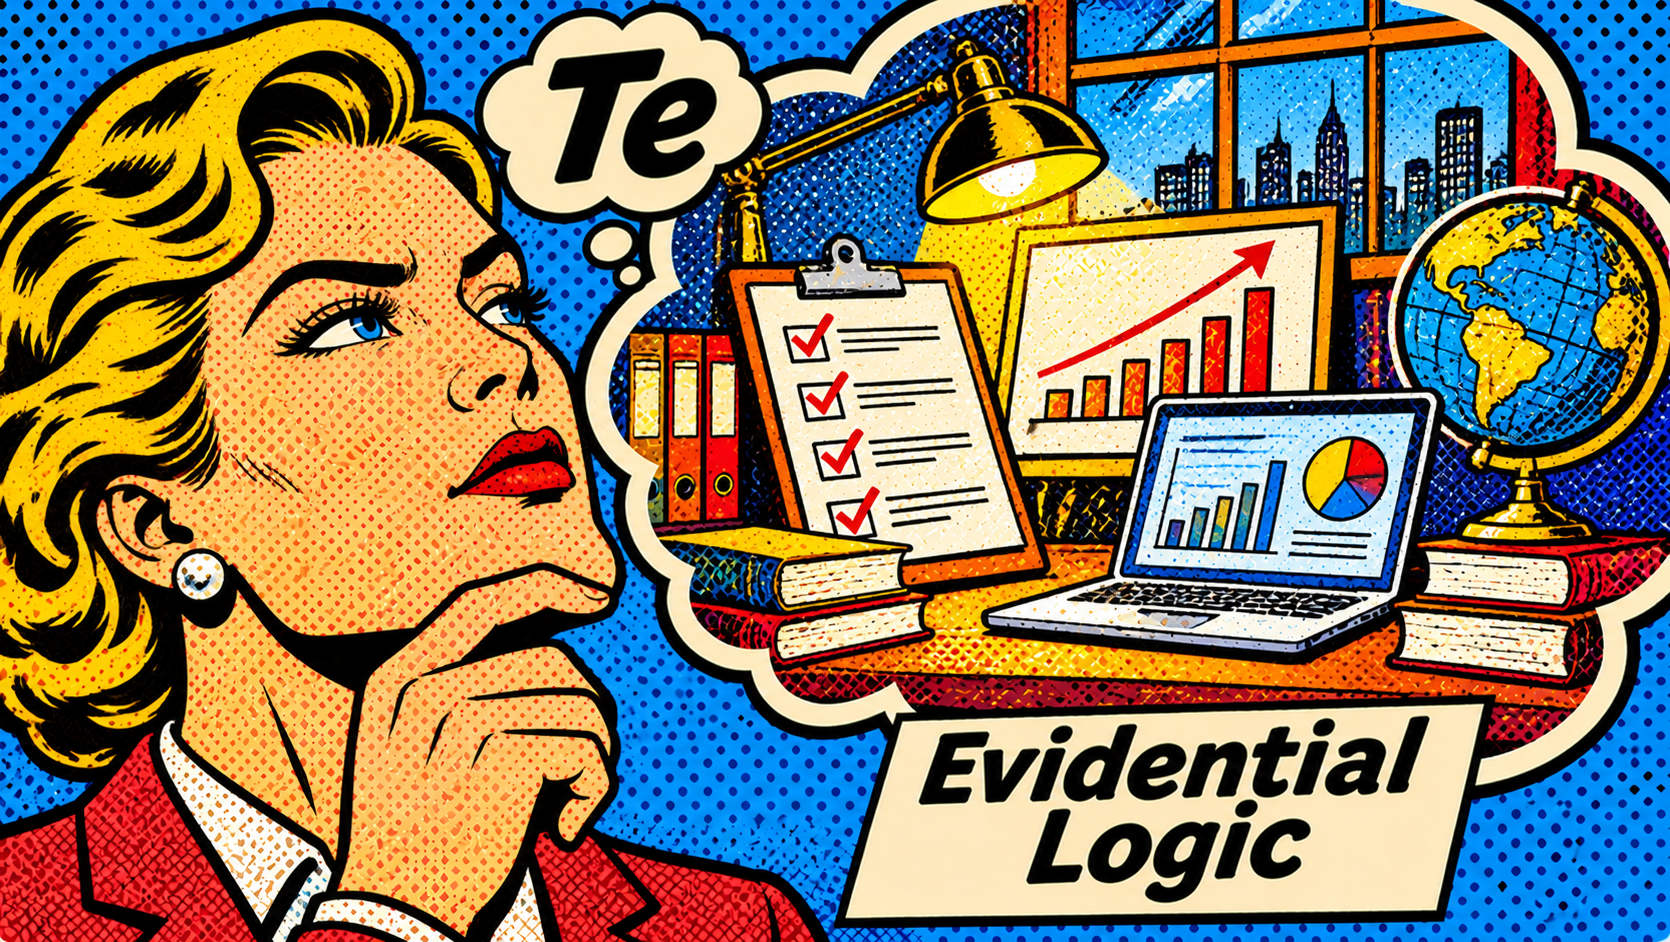
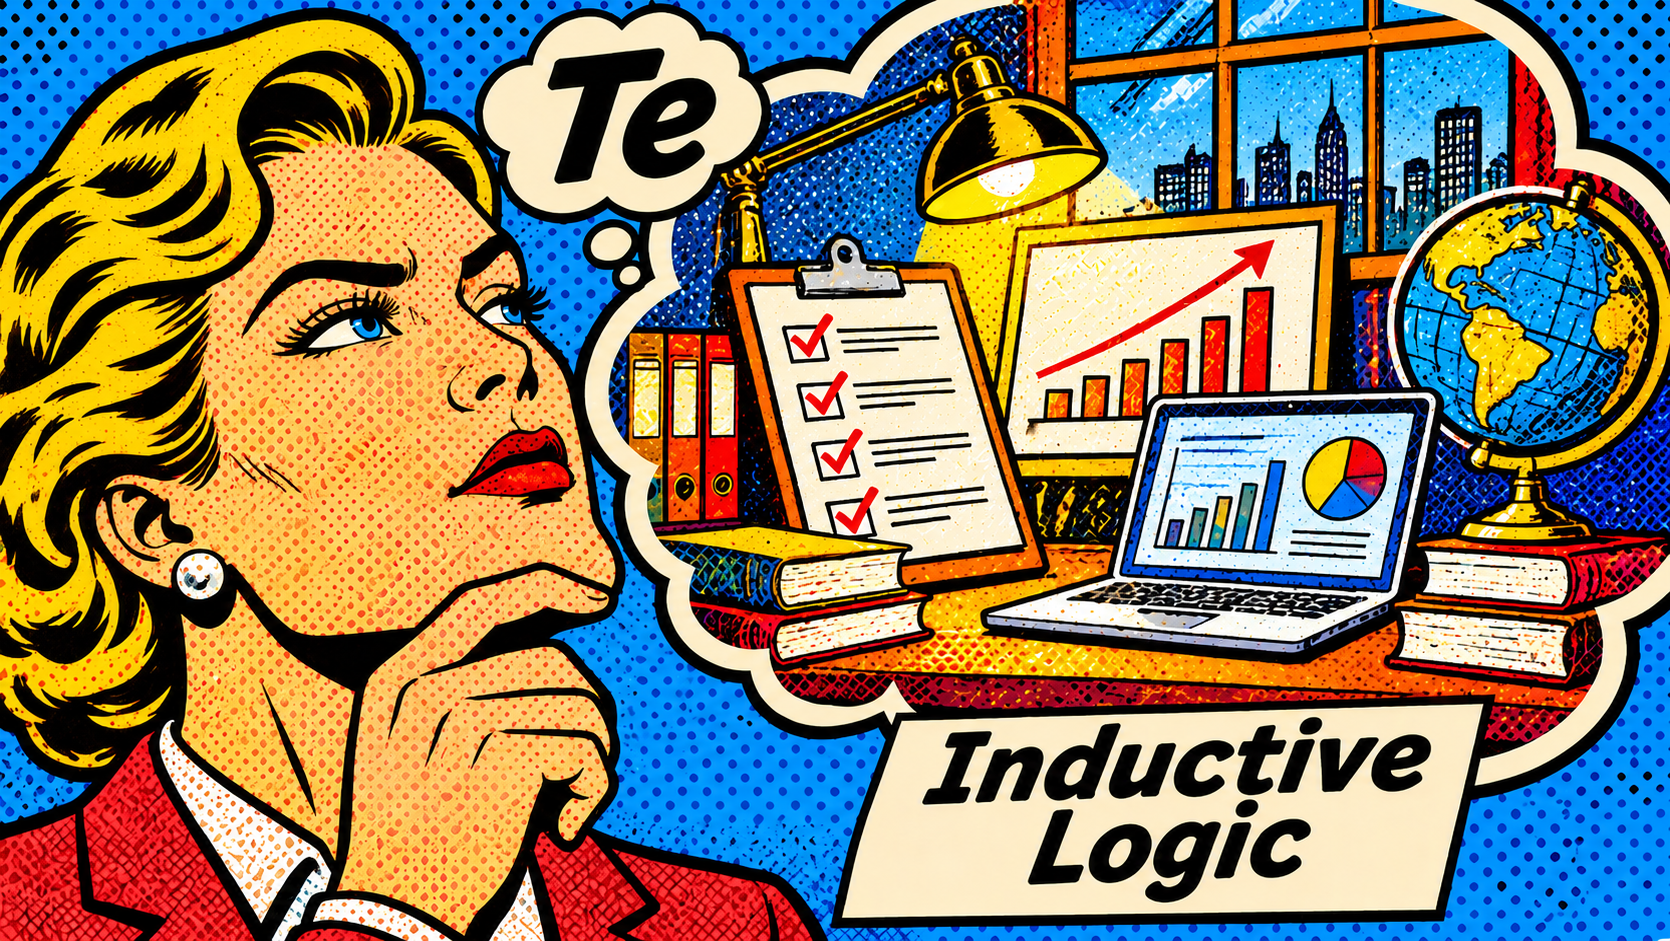
Update

diff --git a/Typology/Referencics.md b/Typology/Referencics.md
@@ -171,22 +171,36 @@ For example, someone visits a popular beach spot for vacation, and when their fr
 
 ![Introverted Intuition|429](./media/hcc_ni.png)
 
-*Introverted intuition* which is also known as *symbolic potential* combines
+*Introverted intuition* which is also known as *symbolic potential* combines *introverted* attitude and function of *intuition* to produce a *subjective* attitude towards *hidden potential*. Using this, a subject perceives hidden potential in objects based on what their inner compass shows them, and not the potential that object itself contains as subjective contents influence it.
+
+For example, someone comes to know that their friend won the marathon just before their brother's birthday, and later treating it as a divine message to them saying they must cheer up. Notice that the potential hidden in object itself wasn't given importance, but it was given to subject's own understanding or inner direction which influenced their perception.
 
 
 ### 7.4 <u>Extraverted Intuition (Ne)</u>:
 
-Combines the attitude of *extroversion* and information element of *intuition*. This function is used for producing certain outcome with unconscious leaps. For example, *Mark Watney* from *The Martian (2015)* is very likely an ***Ne lens*** character who generally gets surge of ideas in his mind merely by knowing what resources he has, using them in a way to solve complicated and life-threatening situations.
+![Extraverted Intuition|429](./media/hcc_ne.png)
+
+*Extraverted intuition* which is also known as *resource potential* combines *extraverted* attitude and function of *intuition* to produce an *objective* attitude towards *hidden potential*. Using this, a subject perceives hidden potential in object itself instead of letting their subjective influence (inner compass) affect their perception, thus being concentrated on objective information.
+
+For example, someone notices a bunch of discarded broken mechanical parts in a storeroom, and then perceives their collective potential to form a windmill, or even each part's individual potential to be a very critical part in expensive machineries. Notice how the potential is seen in object, and not symbolic for being affected by subject's experiences. Resource can also be living entity.
 
 
 ### 7.5 <u>Introverted Thinking (Ti)</u>:
 
-Combines the attitude of *introversion* and information element of *thinking*. This function is used for analyzing logical systems deeper. For example, *Michael Scofield* from *Prison Break (2005-2017)* is very likely an ***Ti lens*** character whose first response to being introduced to something is to analyze the underlying structure of it, be it a building, prison cell, sewer systems, or even random screws & mechanical tools.
+![Introverted Thinking|429](./media/hcc_ti.png)
+
+*Introverted thinking* which is also known as *deductive logic* combines *introverted* attitude and function of *thinking* to produce a *subjective* attitude towards *logical reasoning*. Using this, a subject judges an object through an inner compass of logic which is established through some established principles, where it raises a sense of wrongness when they are violated.
+
+For example, someone comes to know that evidences against criminal were found but he feels something is wrong because the conclusion doesn't follow from established evidences, as deduction proves it wrong. This is a case where subject feels something is wrong because its own assumptions were challenged, making them sometimes precise yet cynical in nature.
 
 
 ### 7.6 <u>Extraverted Thinking (Te)</u>:
 
-Combines the attitude of *extroversion* and information element of *thinking*. This function is used for producing certain outcome with logical systems. For example, *Light Yagami* from *Death Note (2006-2007)* is very likely an ***Te lens*** character whose every strategic move heavily relied on masking his crimes and make it easier to commit future crimes by taking full leverage of the available rules of the book, being a member of an police forces to evade them easily.
+![Extraverted Thinking|427](./media/hcc_te.png)
+
+*Extraverted thinking* which is also known as *inductive logic* combines *extraverted* attitude and function of *thinking* to produce an *objective* attitude towards *logical reasoning*. Using this, a subject judges an object through objective evidences which are established, instead of verifying it against subject's established principles.
+
+For example, someone collects samples from various rivers to which one is the cleanest for having least harmful microbes in fixed volumes, and concludes so through variations in tests without checking the formulae or other other samples to be sure. This is a form of empirical logic where foundations are given less importance than the underlying principles.
 
 
 ### 7.7 <u>Introverted Feeling (Fi)</u>:
